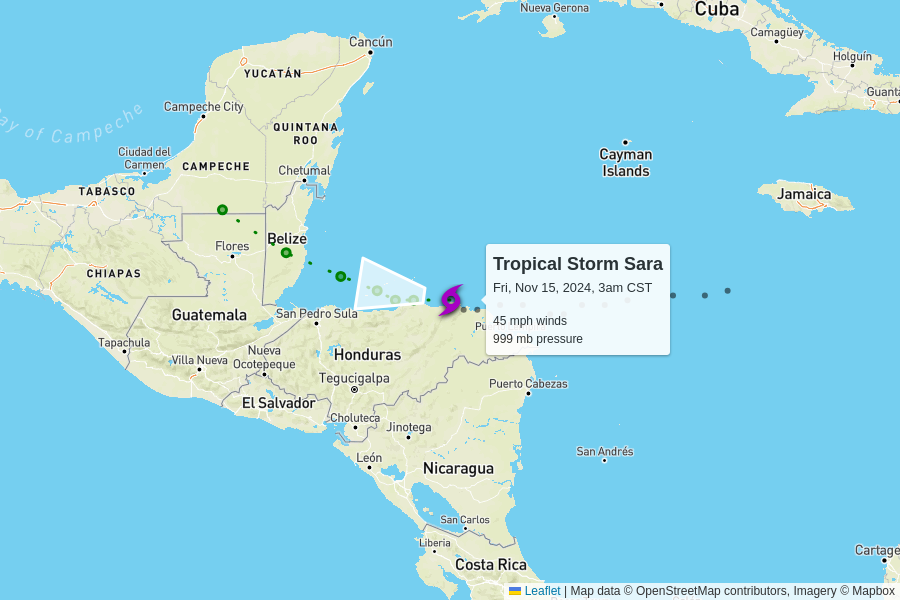
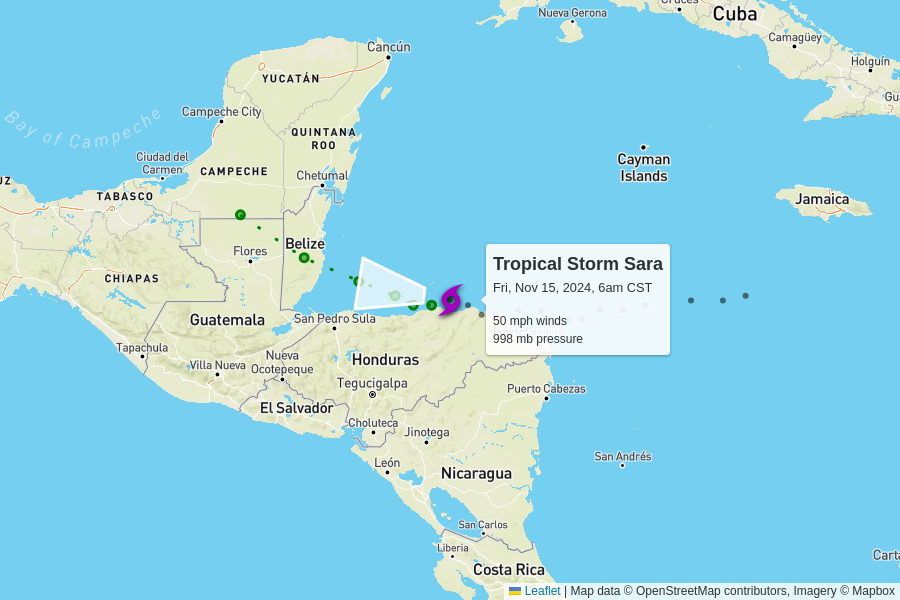
automatic update

diff --git a/docs/index.html b/docs/index.html
@@ -102,7 +102,7 @@
         <td colspan="6" class="storm category-0" >
           <h2>
             Tropical Storm Sara
-            <p class="updated">last updated <span data-time>2024-11-15T09:00:00.000Z</span></p>
+            <p class="updated">last updated <span data-time>2024-11-15T12:15:00.000Z</span></p>
           </h2>
         </td>
       </tr>
@@ -117,8 +117,8 @@
       </tr>
       <tr>
         <td class="spacer"></td>
-        <td>45 mph<br>0 mph since last update</td>
-        <td>999 mb<br>0 mb since last update</td>
+        <td>50 mph<br>0 mph since last update</td>
+        <td>998 mb<br>0 mb since last update</td>
         <td>
           9 mph to the west
           <br/>
